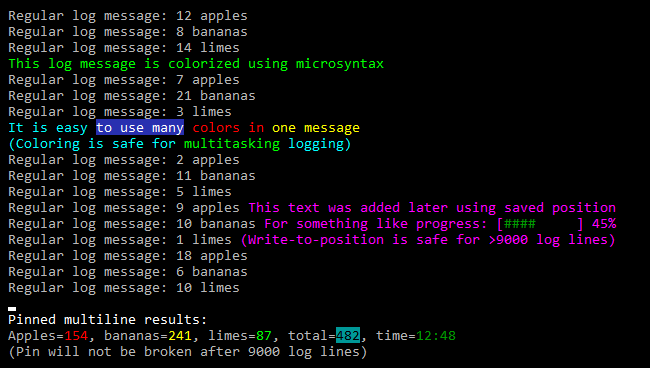
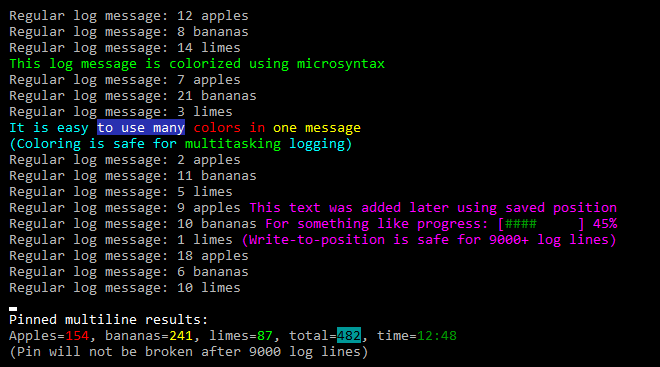
1.0.5

Changed region(s): [[0.0, 0.03, 0.9538, 0.8093], [0.0, 0.8392, 0.7077, 0.9891]]

diff --git a/README.md b/README.md
@@ -3,7 +3,7 @@
 [![MIT licensed](https://img.shields.io/github/license/chubrik/XConsole)](https://github.com/chubrik/XConsole/blob/main/LICENSE)
 
 Extended .NET console with coloring microsyntax, multiline pinning, write-to-position, etc.
-Safe for multitasking, safe for &gt;9000 lines, easy to use.
+Safe for multitasking, safe for 9000+ lines, easy to use.
 
 The main features are shown in the following image:
 
@@ -81,7 +81,7 @@ XConsole supports the [`NO_COLOR`](https://no-color.org/) standard with an appro
 ## <a name="pinning"></a>Pinning
 You can pin some text below regular log messages with the `Pin` method.
 Pinned text can be static or dynamic, contain one or more lines, and of course can be colorized.
-Pin is resistant to line wrapping and to console buffer overflows (&gt;9000 log lines).
+Pin is resistant to line wrapping and to console buffer overflows (9000+ log lines).
 
 ### Static pin
 ```csharp
@@ -117,7 +117,7 @@ Console.Unpin(); // Remove pin
 ## <a name="positioning"></a>Positioning
 XConsole provides an `XConsolePosition` structure, which is a position in the console area.
 This is an important feature if you have a lot of log messages.
-This structure is resistant to console buffer overflows (>9000 log lines)
+This structure is resistant to console buffer overflows (9000+ log lines)
 and always points to the correct position in the console area.
 
 Each `Write` and `WriteLine` method returns a start and end position.
